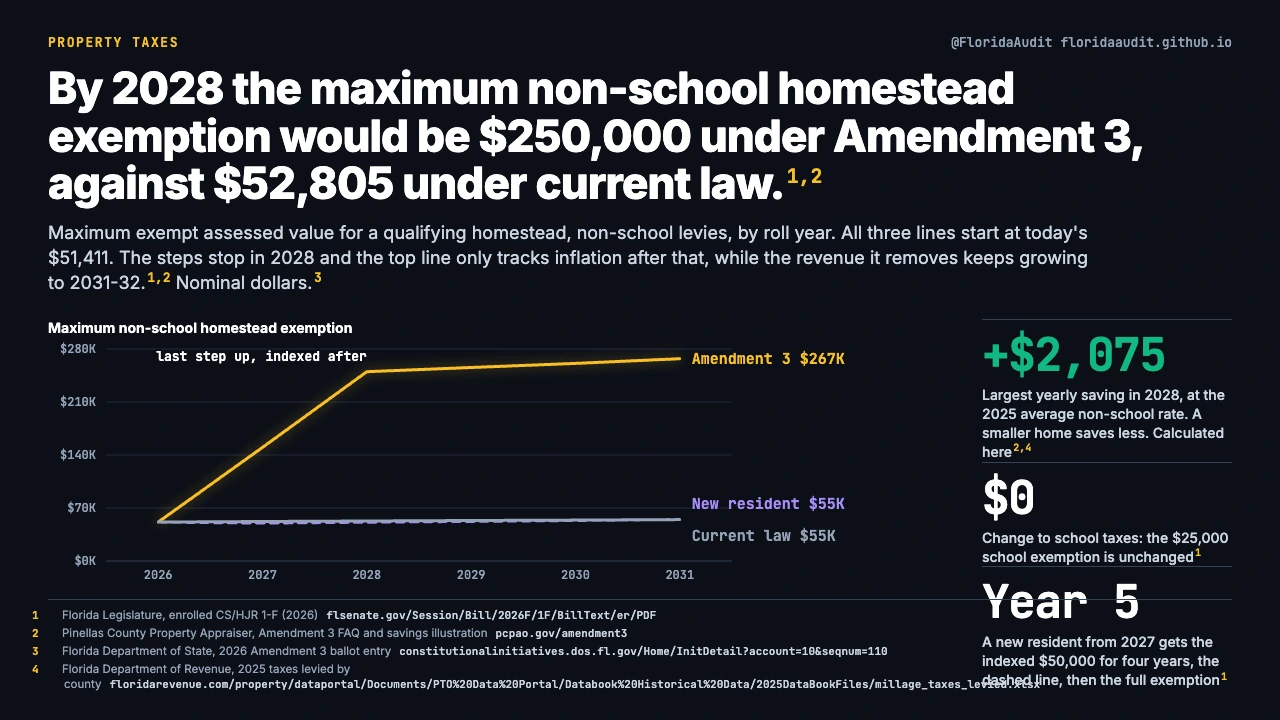
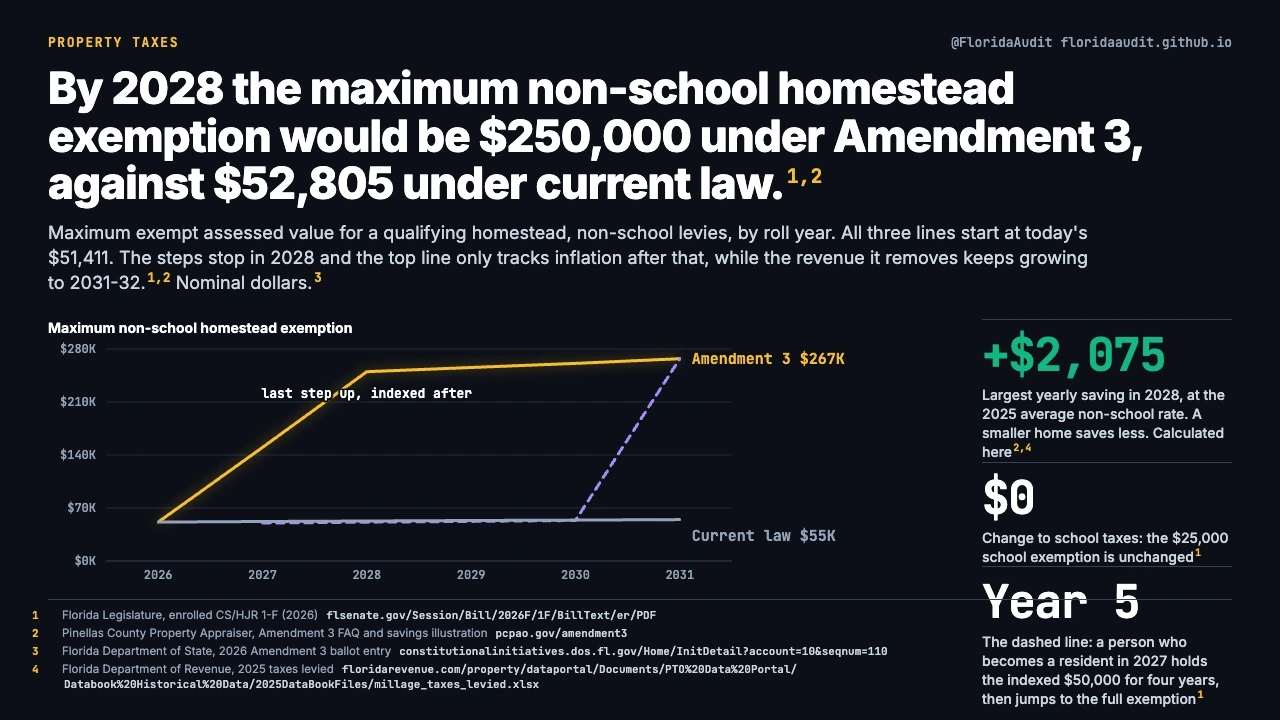
Property Taxes charts rebuilt

Changed region(s): [[0.0625, 0.8861, 0.9688, 0.9778], [0.125, 0.4889, 0.375, 0.5806], [0.5312, 0.6722, 0.6562, 0.7333]]

diff --git a/c/property-taxes/impact-by-county.html b/c/property-taxes/impact-by-county.html
@@ -4,24 +4,24 @@
   <meta charset="utf-8">
   <meta name="viewport" content="width=device-width, initial-scale=1">
   <title>As a share of today's budget, eight counties will lose more than half of their non-school property tax. · Florida Audit Project</title>
-  <meta name="description" content="Property Taxes: The same reduction as the dollar chart, measured as a share instead, with the dollars after each name so the scale stays visible.">
+  <meta name="description" content="Property Taxes: Recurring annual reduction estimated for FY2031-32, against each county's 2025 non-school levies, for every local government in the county.">
   <link rel="canonical" href="https://floridaaudit.github.io/c/property-taxes/impact-by-county.html">
   <meta name="robots" content="index, follow, max-image-preview:large">
   <meta property="og:type" content="article">
   <meta property="og:site_name" content="Florida Audit Project">
   <meta property="og:title" content="As a share of today's budget, eight counties will lose more than half of their non-school property tax.">
-  <meta property="og:description" content="Property Taxes: The same reduction as the dollar chart, measured as a share instead, with the dollars after each name so the scale stays visible.">
+  <meta property="og:description" content="Property Taxes: Recurring annual reduction estimated for FY2031-32, against each county's 2025 non-school levies, for every local government in the county.">
   <meta property="og:url" content="https://floridaaudit.github.io/c/property-taxes/impact-by-county.html">
   <meta property="og:image" content="https://floridaaudit.github.io/charts/property-taxes/impact-by-county-card.png">
   <meta property="og:image:width" content="1200">
   <meta property="og:image:height" content="630">
-  <meta property="og:image:alt" content="As a share of today's budget, eight counties will lose more than half of their non-school property tax. The same reduction as the dollar chart, measured as a share instead, with the dollars after each name so the scale stays visible. Both charts count every local government in the county, the county itself plus its cities and special districts, against every non-school levy raised there: recurring annual reduction estimated for FY2031-32, against each county's 2025 non-school levies, calculated here. The two figures are years apart on purpose: the reduction is measured against what a county raises today, and the levy base will itself grow by 2031, so the share of that later base is smaller than the share shown here. Holds 2025 tax rates constant.">
+  <meta property="og:image:alt" content="As a share of today's budget, eight counties will lose more than half of their non-school property tax. Recurring annual reduction estimated for FY2031-32, against each county's 2025 non-school levies, for every local government in the county. The two years are deliberate: the base grows by 2031, so the share of that later base is smaller than the share here. Holds 2025 tax rates constant.">
   <meta name="twitter:card" content="summary_large_image">
   <meta name="twitter:site" content="@FloridaAudit">
   <meta name="twitter:title" content="As a share of today's budget, eight counties will lose more than half of their non-school property tax.">
-  <meta name="twitter:description" content="Property Taxes: The same reduction as the dollar chart, measured as a share instead, with the dollars after each name so the scale stays visible.">
+  <meta name="twitter:description" content="Property Taxes: Recurring annual reduction estimated for FY2031-32, against each county's 2025 non-school levies, for every local government in the county.">
   <meta name="twitter:image" content="https://floridaaudit.github.io/charts/property-taxes/impact-by-county-card.png">
-  <meta name="twitter:image:alt" content="As a share of today's budget, eight counties will lose more than half of their non-school property tax. The same reduction as the dollar chart, measured as a share instead, with the dollars after each name so the scale stays visible. Both charts count every local government in the county, the county itself plus its cities and special districts, against every non-school levy raised there: recurring annual reduction estimated for FY2031-32, against each county's 2025 non-school levies, calculated here. The two figures are years apart on purpose: the reduction is measured against what a county raises today, and the levy base will itself grow by 2031, so the share of that later base is smaller than the share shown here. Holds 2025 tax rates constant.">
+  <meta name="twitter:image:alt" content="As a share of today's budget, eight counties will lose more than half of their non-school property tax. Recurring annual reduction estimated for FY2031-32, against each county's 2025 non-school levies, for every local government in the county. The two years are deliberate: the base grows by 2031, so the share of that later base is smaller than the share here. Holds 2025 tax rates constant.">
   <link rel="icon" href="/assets/favicon.png" type="image/png">
   <link rel="stylesheet" href="/assets/site.css">
   <script type="application/ld+json">
@@ -29,7 +29,7 @@
   "@context": "https://schema.org",
   "@type": "Dataset",
   "name": "As a share of today's budget, eight counties will lose more than half of their non-school property tax.",
-  "description": "Property Taxes: The same reduction as the dollar chart, measured as a share instead, with the dollars after each name so the scale stays visible.",
+  "description": "Property Taxes: Recurring annual reduction estimated for FY2031-32, against each county's 2025 non-school levies, for every local government in the county.",
   "url": "https://floridaaudit.github.io/c/property-taxes/impact-by-county.html",
   "license": "https://creativecommons.org/publicdomain/zero/1.0/",
   "isAccessibleForFree": true,
@@ -69,9 +69,9 @@
   <article>
     <p class="kicker">Property Taxes</p>
     <h1>As a share of today's budget, eight counties will lose more than half of their non-school property tax.</h1>
-    <p class="sub">The same reduction as the dollar chart, measured as a share instead, with the dollars after each name so the scale stays visible. Both charts count every local government in the county, the county itself plus its cities and special districts, against every non-school levy raised there: recurring annual reduction estimated for FY2031-32, against each county's 2025 non-school levies, calculated here. The two figures are years apart on purpose: the reduction is measured against what a county raises today, and the levy base will itself grow by 2031, so the share of that later base is smaller than the share shown here. Holds 2025 tax rates constant.</p>
+    <p class="sub">Recurring annual reduction estimated for FY2031-32, against each county's 2025 non-school levies, for every local government in the county. The two years are deliberate: the base grows by 2031, so the share of that later base is smaller than the share here. Holds 2025 tax rates constant.</p>
     <figure>
-      <img src="/charts/property-taxes/impact-by-county.webp" width="1280" height="720" alt="As a share of today's budget, eight counties will lose more than half of their non-school property tax. The same reduction as the dollar chart, measured as a share instead, with the dollars after each name so the scale stays visible. Both charts count every local government in the county, the county itself plus its cities and special districts, against every non-school levy raised there: recurring annual reduction estimated for FY2031-32, against each county's 2025 non-school levies, calculated here. The two figures are years apart on purpose: the reduction is measured against what a county raises today, and the levy base will itself grow by 2031, so the share of that later base is smaller than the share shown here. Holds 2025 tax rates constant.">
+      <img src="/charts/property-taxes/impact-by-county.webp" width="1280" height="720" alt="As a share of today's budget, eight counties will lose more than half of their non-school property tax. Recurring annual reduction estimated for FY2031-32, against each county's 2025 non-school levies, for every local government in the county. The two years are deliberate: the base grows by 2031, so the share of that later base is smaller than the share here. Holds 2025 tax rates constant.">
       <figcaption>Full size: <a href="/charts/property-taxes/impact-by-county.png">PNG, 2560 by 1440</a></figcaption>
     </figure>
     <p class="download"><a href="/data/property-taxes/county-reduction-share.csv">Download the data behind this chart (county-reduction-share.csv)</a></p>

diff --git a/c/property-taxes/index.html b/c/property-taxes/index.html
@@ -34,7 +34,7 @@
       <li><a href="/c/property-taxes/local-revenue-impact.html"><img src="/charts/property-taxes/local-revenue-impact.webp" width="1280" height="720" alt="Amendment 3 would reduce local non-school property tax revenue by an estimated $11.83 billion a year by 2031. Estimated reduction in local non-school property tax revenue by the government that levies it. On the November 3, 2026 ballot; needs 60% to pass. Ten counties carry $7.54B of it, led by Miami-Dade $1.39B and Broward $1.19B, with all 67 in the CSV. It keeps growing after the exemption stops stepping up in 2028, because the conference counts the sixth year as the recurring impact and the lower assessment cap compounds. Holds 2025 tax rates constant. Nominal dollars." loading="lazy"><span>Amendment 3 would reduce local non-school property tax revenue by an estimated $11.83 billion a year by 2031.</span></a></li>
       <li><a href="/c/property-taxes/permitted-uses.html"><img src="/charts/property-taxes/permitted-uses.webp" width="1280" height="720" alt="Amendment 3 lists seven permitted uses for county and city property taxes. Text of the proposed Article VII, Section 9(a)(2). School district and special district levies are not covered by this list." loading="lazy"><span>Amendment 3 lists seven permitted uses for county and city property taxes.</span></a></li>
       <li><a href="/c/property-taxes/the-legislative-vote.html"><img src="/charts/property-taxes/the-legislative-vote.webp" width="1280" height="720" alt="Amendment 3 is on the ballot because the Legislature put it there: 75-26 in the House, 30-9 in the Senate. Votes on June 2, 2026 on CS/HJR 1-F. A joint resolution does not go to the governor." loading="lazy"><span>Amendment 3 is on the ballot because the Legislature put it there: 75-26 in the House, 30-9 in the Senate.</span></a></li>
-      <li><a href="/c/property-taxes/impact-by-county.html"><img src="/charts/property-taxes/impact-by-county.webp" width="1280" height="720" alt="As a share of today's budget, eight counties will lose more than half of their non-school property tax. The same reduction as the dollar chart, measured as a share instead, with the dollars after each name so the scale stays visible. Both charts count every local government in the county, the county itself plus its cities and special districts, against every non-school levy raised there: recurring annual reduction estimated for FY2031-32, against each county's 2025 non-school levies, calculated here. The two figures are years apart on purpose: the reduction is measured against what a county raises today, and the levy base will itself grow by 2031, so the share of that later base is smaller than the share shown here. Holds 2025 tax rates constant." loading="lazy"><span>As a share of today's budget, eight counties will lose more than half of their non-school property tax.</span></a></li>
+      <li><a href="/c/property-taxes/impact-by-county.html"><img src="/charts/property-taxes/impact-by-county.webp" width="1280" height="720" alt="As a share of today's budget, eight counties will lose more than half of their non-school property tax. Recurring annual reduction estimated for FY2031-32, against each county's 2025 non-school levies, for every local government in the county. The two years are deliberate: the base grows by 2031, so the share of that later base is smaller than the share here. Holds 2025 tax rates constant." loading="lazy"><span>As a share of today's budget, eight counties will lose more than half of their non-school property tax.</span></a></li>
       <li><a href="/c/property-taxes/impact-by-county-dollars.html"><img src="/charts/property-taxes/impact-by-county-dollars.webp" width="1280" height="720" alt="Ten counties carry $7.54 billion of the $11.83 billion, and two thirds of it comes off county government. Recurring annual reduction in local non-school property tax revenue once the exemption is fully phased in, for the ten largest of Florida's 67 counties, split between the county government and the cities and special districts inside it. Duval has no county-government bar: Jacksonville and Duval County are one consolidated government, which the table files as a municipality, so its whole reduction sits in the purple bar. All 67 counties are in the CSV behind this chart. Holds 2025 tax rates constant. Nominal dollars." loading="lazy"><span>Ten counties carry $7.54 billion of the $11.83 billion, and two thirds of it comes off county government.</span></a></li>
       <li><a href="/c/property-taxes/non-homestead-assessment-cap.html"><img src="/charts/property-taxes/non-homestead-assessment-cap.webp" width="1280" height="720" alt="Separately, the yearly assessment cap on rental and commercial property would fall from 10% to 5%. Maximum annual growth in taxable assessed value for non-homestead, non-agricultural parcels, non-school levies; the current 10% cap has been in place since 2008. The cap limits the value the tax is computed on, not the market price, not the rent, and not the millage rate. The lines are an illustration calculated here, not a forecast: one parcel assessed at $1,000,000 in 2026 whose market value then rises 12% a year, the condition under which a cap binds at all." loading="lazy"><span>Separately, the yearly assessment cap on rental and commercial property would fall from 10% to 5%.</span></a></li>
     </ul>

diff --git a/c/property-taxes/homestead-exemption-amounts.html b/c/property-taxes/homestead-exemption-amounts.html
@@ -60,7 +60,7 @@
     "Florida Legislature, enrolled CS/HJR 1-F (2026)",
     "Pinellas County Property Appraiser, Amendment 3 FAQ and savings illustration",
     "Florida Department of State, 2026 Amendment 3 ballot entry",
-    "Florida Department of Revenue, 2025 taxes levied by county"
+    "Florida Department of Revenue, 2025 taxes levied"
   ]
 }
   </script>
@@ -83,7 +83,7 @@
         <li>Florida Legislature, enrolled CS/HJR 1-F (2026) <a href="https://www.flsenate.gov/Session/Bill/2026F/1F/BillText/er/PDF">www.flsenate.gov/Session/Bill/2026F/1F/BillText/er/PDF</a></li>
         <li>Pinellas County Property Appraiser, Amendment 3 FAQ and savings illustration <a href="https://www.pcpao.gov/amendment3">www.pcpao.gov/amendment3</a></li>
         <li>Florida Department of State, 2026 Amendment 3 ballot entry <a href="https://constitutionalinitiatives.dos.fl.gov/Home/InitDetail?account=10&amp;seqnum=110">constitutionalinitiatives.dos.fl.gov/Home/InitDetail?account=10&amp;seqnum=110</a></li>
-        <li>Florida Department of Revenue, 2025 taxes levied by county <a href="https://floridarevenue.com/property/dataportal/Documents/PTO%20Data%20Portal/Databook%20Historical%20Data/2025DataBookFiles/millage_taxes_levied.xlsx">floridarevenue.com/property/dataportal/Documents/PTO%20Data%20Portal/Databook%20Historical</a></li>
+        <li>Florida Department of Revenue, 2025 taxes levied <a href="https://floridarevenue.com/property/dataportal/Documents/PTO%20Data%20Portal/Databook%20Historical%20Data/2025DataBookFiles/millage_taxes_levied.xlsx">floridarevenue.com/property/dataportal/Documents/PTO%20Data%20Portal/Databook%20Historical</a></li>
       </ol>
     </section>
     <p class="meta">Published 2026-09-29. Released into the public domain under <a href="https://creativecommons.org/publicdomain/zero/1.0/">CC0</a>. No attribution required.</p>
